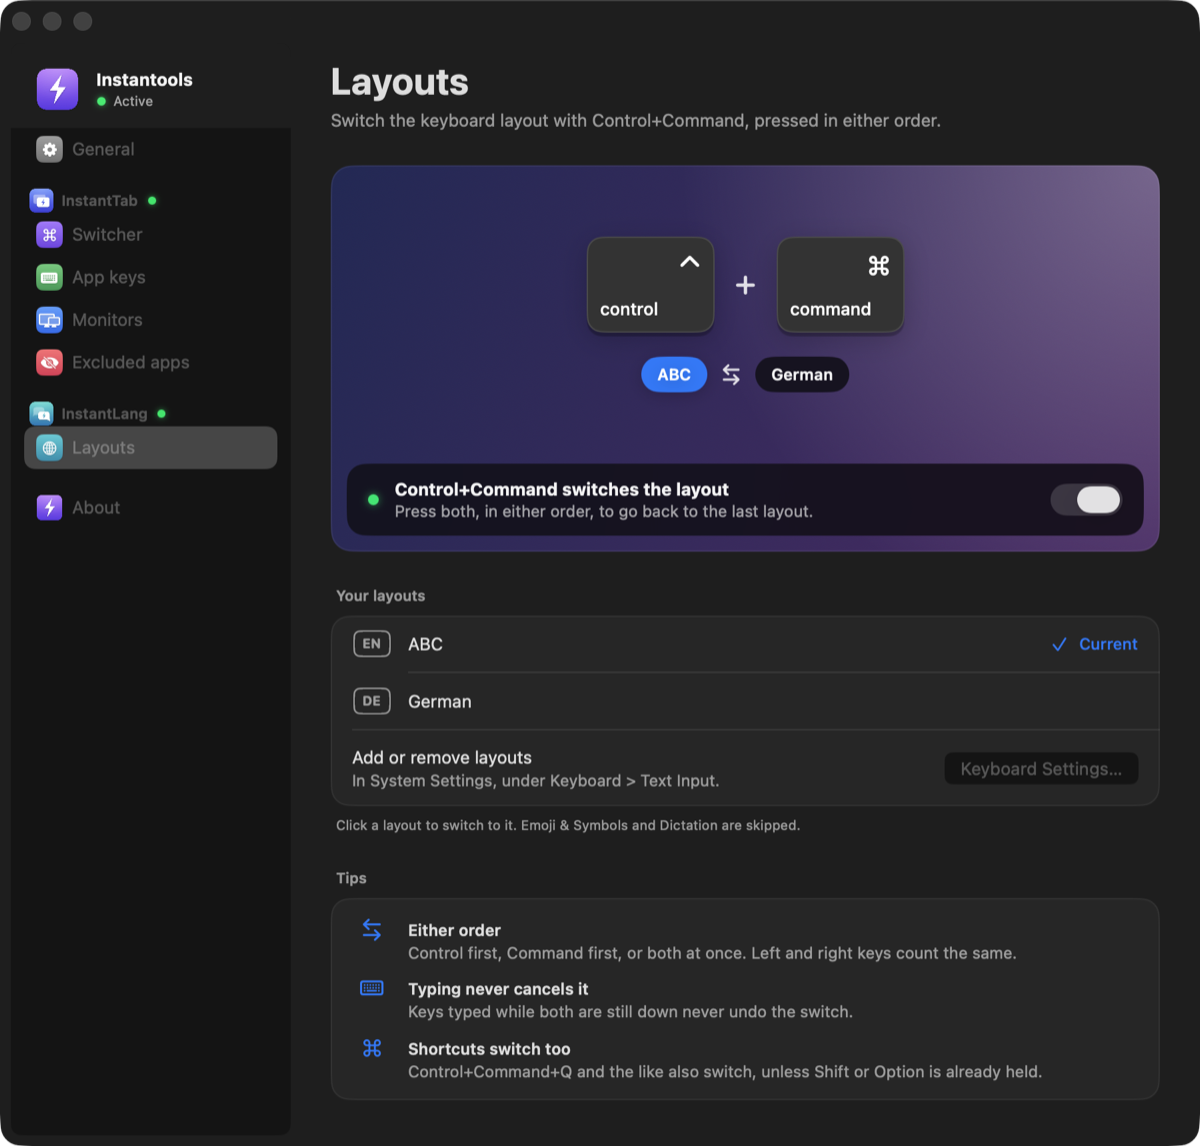
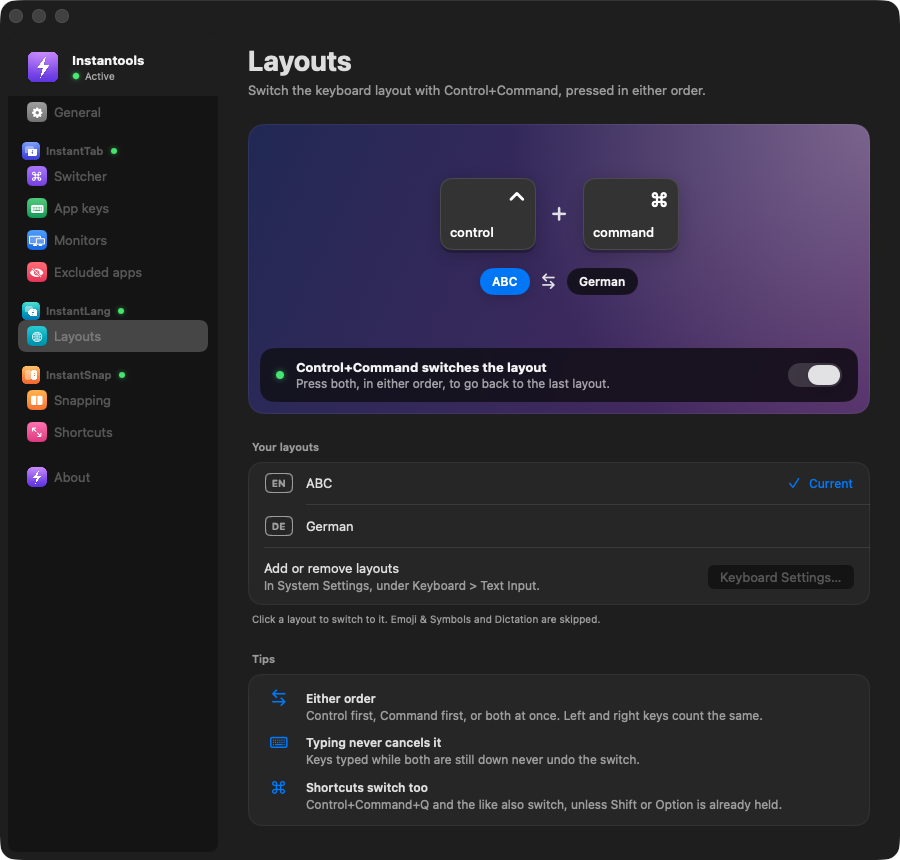
Update the README and screenshots for InstantSnap
The screenshots show all three tools, and the InstantSnap section gets one of the Snapping pane. The README also covers clicking only in the switcher, the permissions InstantSnap asks for and where the config store lives now.

diff --git a/README.md b/README.md
@@ -47,7 +47,7 @@ An app switcher with the control macOS leaves out.
 | **Up, Down** | App Exposé for the selected app |
 | **Q, H** | Quit or hide the selected app |
 | **App keys** | Go straight to the app bound to that key (Settings > App keys) |
-| **Mouse** | Point to select, click to switch |
+| **Mouse** | Point to select, click to switch. With Select by pointing off, pointing only highlights, so a resting mouse never changes the selection |
 | **Esc** | Cancel |
 
 ## InstantLang
@@ -76,6 +76,10 @@ Window snapping that lands the moment you ask, with nothing animating in between
 - **Across monitors.** A snapped window takes the same place on the next monitor, so a half stays a half. Any other window keeps its size.
 - **Again.** Pressing a half again moves the window on to the next monitor that way, cycles it through a half, two thirds and one third, or does nothing, as you choose.
 - **Gaps.** Optional space between snapped windows and around them.
+
+<p align="center">
+  <img src="docs/images/snapping.png" width="640" alt="The Snapping pane">
+</p>
 
 Quit Rectangle first, and turn off macOS's own tiling in System Settings > Desktop & Dock: Drag windows to screen edges to tile, and Drag windows to menu bar to fill screen. Settings > Snapping reminds you of both, and marks any shortcut another app still has. Shortcuts are listed in Settings > Shortcuts and changed in `~/.config/instantools/snap.json5`.
 
@@ -116,7 +120,7 @@ security delete-identity -t -c "Instantools Local Signing"
 Each tool runs as part of Instantools, so macOS asks once and lists only Instantools in Privacy & Security.
 
 - **Accessibility** covers every tool. InstantTab works without it, but the keys inside the switcher and raising the right window need it. InstantSnap needs it to move other apps' windows.
-- **Input Monitoring** is all InstantLang needs when you use it without InstantTab. With Accessibility allowed it is not needed, unless Input Monitoring is switched off for Instantools: that stops InstantLang and the keys inside the switcher even with Accessibility.
+- **Input Monitoring** is all InstantLang needs when you use it on its own. With Accessibility allowed, as InstantTab and InstantSnap ask, it is not needed, unless Input Monitoring is switched off for Instantools: that stops InstantLang and the keys inside the switcher even with Accessibility.
 
 Each tool's card in Settings > General shows the permissions it is missing right now, each with a button to allow it, and the sidebar marks a tool that needs attention in orange.
 
@@ -125,7 +129,7 @@ Each tool's card in Settings > General shows the permissions it is missing right
 Accessibility and Input Monitoring are the same access a keylogger needs, so this is what Instantools does with them:
 
 - **No network.** Nothing in the app opens a connection. The GitHub button in About opens the page in your browser.
-- **Keys are never stored or logged.** InstantLang listens only to modifier keys (Control, Command, Shift, Option, Fn), never to the keys you type. InstantTab sees other keys only while its switcher is open and only with Cmd held, and acts on them there.
+- **Keys are never stored or logged.** InstantLang listens only to modifier keys (Control, Command, Shift, Option, Fn), never to the keys you type. InstantTab sees other keys only while its switcher is open and only with Cmd held, and acts on them there. InstantSnap gets only its own shortcuts, from macOS.
 - **What is kept.** Your settings in `~/.config/instantools` and the app's preferences. Logs go to the macOS log under `com.infeace.Instantools` and hold status only, such as tool starts, your layout list and switch timings.
 - **Mouse.** InstantSnap watches the left mouse button to tell when a window is dragged, and keeps nothing of it.
 - **Check it yourself.** The event taps are in `Sources/LayoutSwitcher/ChordTap.swift` and `Sources/AppSwitcher/InputTaps.swift`, the hotkeys in `Sources/AppSwitcher/HotKeys.swift` and `Sources/WindowSnapper/SnapHotKeys.swift`, and the mouse watch in `Sources/WindowSnapper/DragSnapper.swift`.
@@ -188,11 +192,11 @@ Panes are `general`, `switcher`, `keys`, `monitors`, `exclusions`, `language` (t
 | Path | What |
 |---|---|
 | `Sources/Instantools` | The host: menu bar, Settings, welcome window, Start at login, tool supervisor, first-launch migration |
-| `Sources/InstantoolsCore` | Tool ids, host and tool messages, restart backoff, migration decisions, tool and permission states. Unit tested |
-| `Sources/InstantoolsKit` | Shared by the host and the tools: the tool side of the channel, logging, permissions, the keyboard layout list |
+| `Sources/InstantoolsCore` | Tool ids, host and tool messages, restart backoff, migration decisions, tool and permission states, the config file protocol. Unit tested |
+| `Sources/InstantoolsKit` | Shared by the host and the tools: the tool side of the channel, the config file store, logging, permissions, the keyboard layout list |
 | `Sources/AppSwitcher` | InstantTab: input, switcher panel, focus |
 | `Sources/AppSwitcherCore` | Its pure logic: filtering, monitor groups, config. Unit tested |
-| `Sources/AppSwitcherKit` | What Settings shares with it: config store, displays, native Cmd+Tab, panel style |
+| `Sources/AppSwitcherKit` | What Settings shares with it: its config store, displays, native Cmd+Tab, panel style |
 | `Sources/LayoutSwitcher` | InstantLang: event tap and input sources |
 | `Sources/LayoutSwitcherCore` | Its pure logic: chord detection and layout choice. Unit tested |
 | `Sources/WindowSnapper` | InstantSnap: hotkeys, window moves, drag watch, preview |

diff --git a/AGENTS.md b/AGENTS.md
@@ -13,7 +13,7 @@ A macOS menu bar app of small tools where latency is the product, each in its ow
 
 - `Instantools` is the host: menu bar, Settings, the first-launch welcome, Start at login, the tool supervisor and the first-launch migration.
 - `InstantoolsCore` holds tool ids, host and tool messages, restart backoff, migration decisions, tool and permission states, and the config file protocol. `InstantoolsKit` is shared by the host and the tools: the tool side of the channel, the config file store, logging, permissions and the keyboard layout list.
-- `AppSwitcher` is InstantTab, the Cmd+Tab tool, `AppSwitcherCore` its pure logic, and `AppSwitcherKit` what Settings shares with it: the config store, displays, native Cmd+Tab and the panel style.
+- `AppSwitcher` is InstantTab, the Cmd+Tab tool, `AppSwitcherCore` its pure logic, and `AppSwitcherKit` what Settings shares with it: its config store, displays, native Cmd+Tab and the panel style.
 - `LayoutSwitcher` is InstantLang, the layout tool, and `LayoutSwitcherCore` its pure logic.
 - `WindowSnapper` is InstantSnap, the window snapping tool, and `WindowSnapperCore` its pure logic and its config, which Settings shares.
 - A new tool is a case in `ToolId`, its status in `ToolMessage`, an executable target, a line in the `tools` list of `scripts/build.sh`, a Settings pane, and its icon, drawn by `scripts/make-icon.swift` as `Resources/<name>.png` and copied by `scripts/build.sh`.
